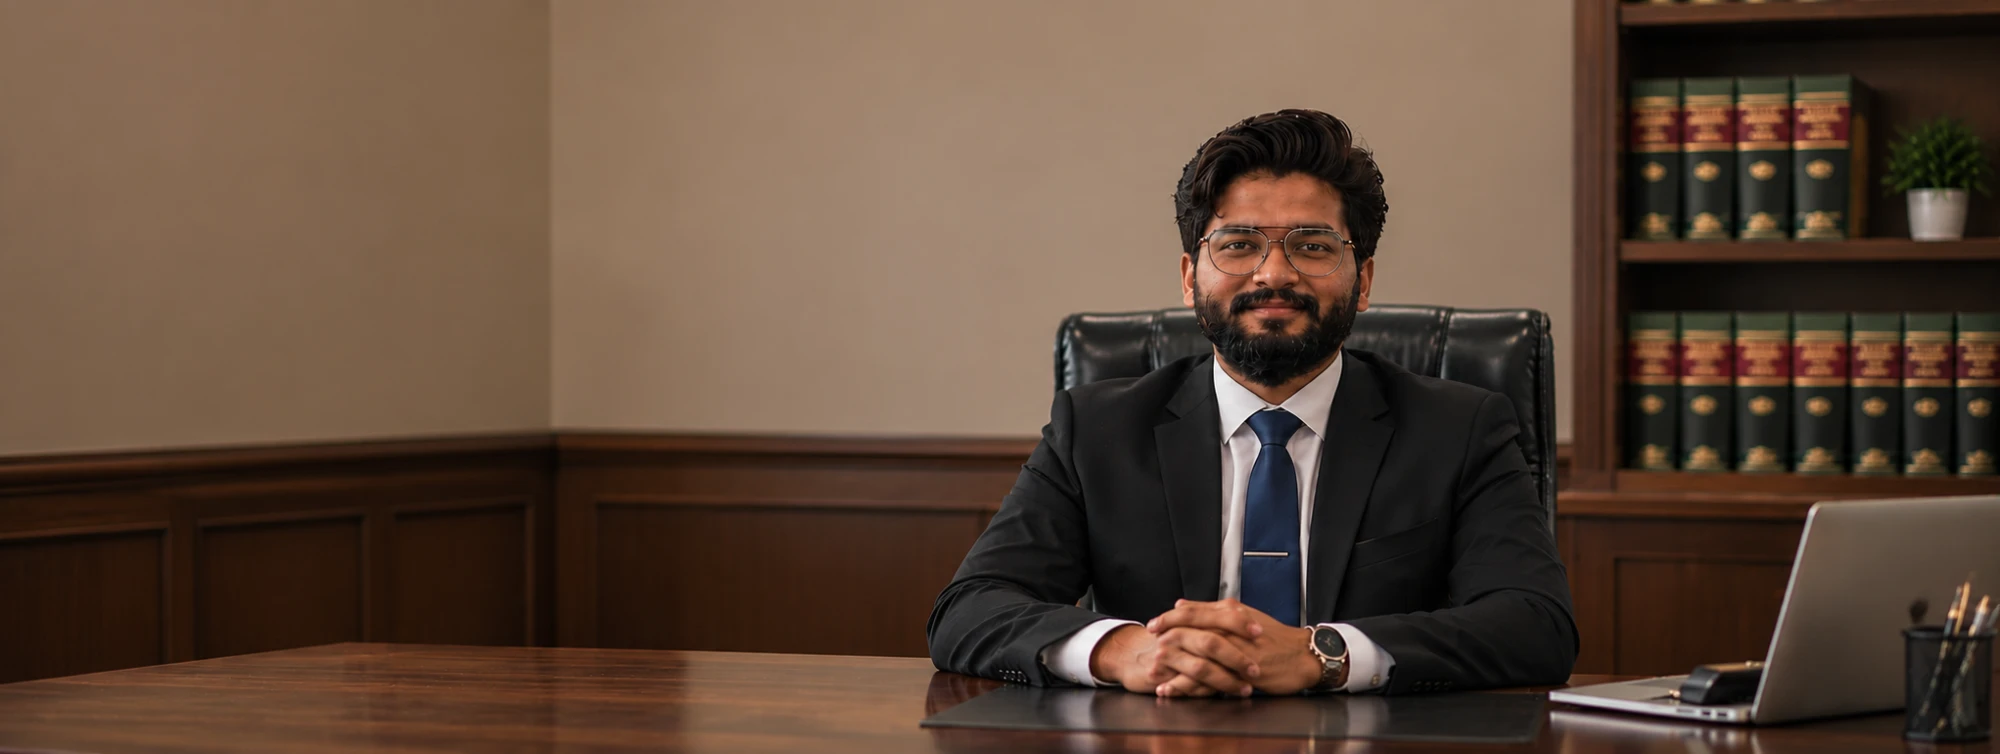
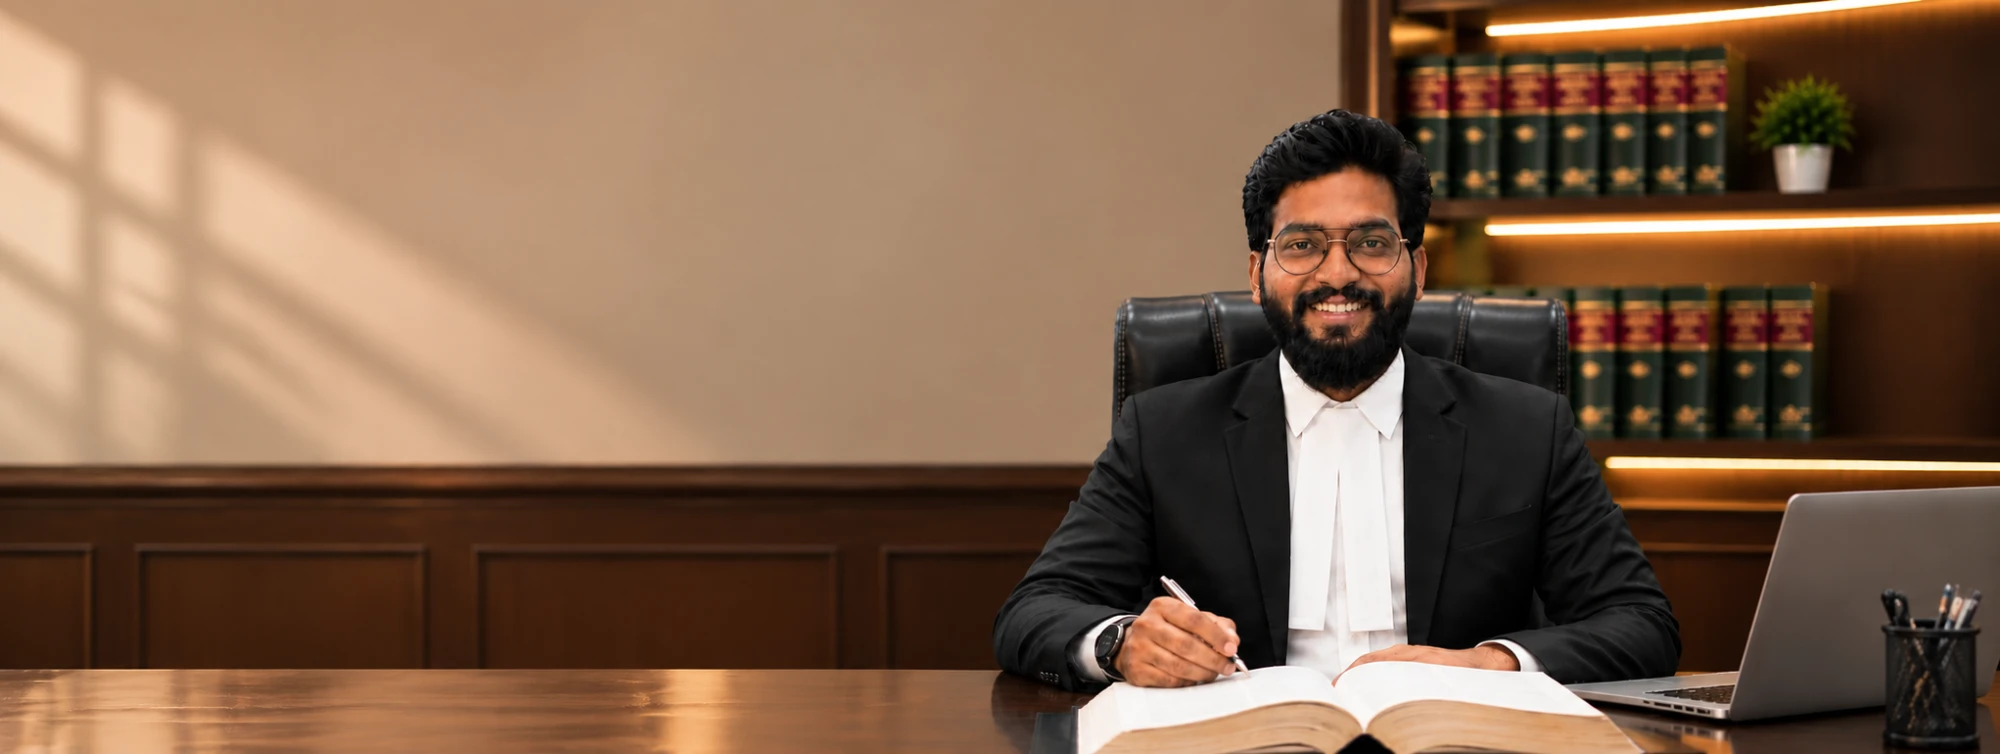
New cover photo, email consult buttons, directions link; remove the hero quote
- Cover replaced with the photograph in advocate's bands; tablet and
  phone crops re-centred on him
- Consult Now and Get a Consultation open a new email to the advocate
- Get directions link under the location in the contact section
- The 'Clarity Strategy Results' quote and its styles are removed

diff --git a/css/styles.css b/css/styles.css
@@ -97,7 +97,6 @@ a { color: inherit; }
 .hero::before {
   content: ""; position: absolute; inset: 0; z-index: -1;
   background:
-    radial-gradient(26rem 18rem at 100% 0%, rgba(11, 22, 34, 0.8), transparent 75%),
     linear-gradient(180deg, rgba(11, 22, 34, 0.8) 0%, rgba(11, 22, 34, 0.15) 30%, rgba(11, 22, 34, 0.15) 100%),
     linear-gradient(90deg, rgba(11, 22, 34, 0.85) 0%, rgba(11, 22, 34, 0.5) 42%, transparent 62%);
 }
@@ -110,9 +109,6 @@ a { color: inherit; }
 .hero h1 span { display: block; }
 .hero__lede { max-width: 28rem; font-size: 1.02rem; color: var(--on-dark); opacity: 0.92; }
 .hero__actions { display: flex; flex-wrap: wrap; align-items: center; gap: 1rem 1.75rem; margin-top: 0.55rem; }
-/* sits over the bookshelf: placed from the hero's right edge, like the photo, so it never drifts onto his face */
-.hero__quote { position: absolute; top: 22%; right: clamp(1.5rem, 5vw, 5.5rem); font-family: var(--serif); font-size: 1.3rem; line-height: 1.4; text-shadow: 0 1px 0.9rem rgba(11, 22, 34, 0.85); }
-.hero__quote::after { content: ""; display: block; width: 1.9rem; height: 2px; margin-top: 0.8rem; background: var(--copper-bright); }
 
 /* stats */
 .stats { background: var(--paper-2); }
@@ -199,6 +195,7 @@ a { color: inherit; }
 .contact__list strong, .contact__list a { display: block; font-size: 0.8rem; font-weight: 600; line-height: 1.4; text-decoration: none; white-space: nowrap; }
 .contact__list a { padding-block: 0.6rem; margin-block: -0.6rem; }
 .contact__list a:hover { color: var(--copper-text); text-decoration: underline; }
+.contact__list a.directions { margin-block: 0.15rem 0; padding-block: 0.3rem; color: var(--copper-text); text-decoration: underline; text-underline-offset: 0.15em; }
 .contact__list span a { display: inline; padding: 0; margin: 0; font-size: inherit; white-space: normal; text-decoration: underline; text-underline-offset: 0.15em; }
 .contact__list span { display: block; max-width: 11rem; margin-top: 0.2rem; font-size: 0.75rem; line-height: 1.45; color: var(--ink-soft); }
 
@@ -231,7 +228,6 @@ a { color: inherit; }
   .experience__photo { left: -5%; top: -6%; height: 115%; }
 }
 @media (max-width: 1180px) {
-  .hero__quote { display: none; }
   .hero h1 { font-size: clamp(3rem, 7vw, 4.5rem); }
   .hero__lede { max-width: 24rem; }
   .nav { gap: 1.25rem; }
@@ -254,7 +250,7 @@ a { color: inherit; }
   .hero__text { max-width: none; padding-bottom: 1.75rem; }
   .hero__lede { max-width: 34rem; }
   .hero__photo {
-    position: static; display: block; width: 100%; height: auto; aspect-ratio: 16 / 9; object-fit: cover; object-position: 75% center; transform: none;
+    position: static; display: block; width: 100%; height: auto; aspect-ratio: 16 / 9; object-fit: cover; object-position: 85% center; transform: none;
     -webkit-mask-image: linear-gradient(180deg, transparent 0, #000 24%);
     mask-image: linear-gradient(180deg, transparent 0, #000 24%);
   }

diff --git a/index.html b/index.html
@@ -48,7 +48,7 @@
           <li><a href="#clients">Clients</a></li>
           <li><a href="#contact">Contact</a></li>
         </ul>
-        <a class="btn" href="#contact">Consult Now <svg class="icon" aria-hidden="true"><use href="#i-arrow-right"/></svg></a>
+        <a class="btn" href="mailto:adv.vishalkotpalliwar@gmail.com?subject=Consultation%20enquiry">Consult Now <svg class="icon" aria-hidden="true"><use href="#i-arrow-right"/></svg></a>
       </nav>
     </div>
   </header>
@@ -62,12 +62,11 @@
           <h1><span>Vishal</span><span>Kotpalliwar</span></h1>
           <p class="hero__lede">A legal professional combining an engineering mindset with a practical and solution-oriented approach to law, helping individuals, businesses and institutions navigate complex legal challenges.</p>
           <div class="hero__actions">
-            <a class="btn" href="#contact">Get a Consultation <svg class="icon" aria-hidden="true"><use href="#i-arrow-right"/></svg></a>
+            <a class="btn" href="mailto:adv.vishalkotpalliwar@gmail.com?subject=Consultation%20enquiry">Get a Consultation <svg class="icon" aria-hidden="true"><use href="#i-arrow-right"/></svg></a>
             <a class="textlink" href="#practice">Explore Practice Areas <svg class="icon" aria-hidden="true"><use href="#i-arrow-down"/></svg></a>
           </div>
         </div>
       </div>
-      <p class="hero__quote">&ldquo;Clarity<br>Strategy<br>Results&rdquo;</p>
       <img class="hero__photo" src="assets/cover.webp" width="2000" height="754" alt="Advocate Vishal Kotpalliwar seated at his desk" fetchpriority="high">
     </section>
 
@@ -216,7 +215,7 @@
           </li>
           <li>
             <svg class="icon" aria-hidden="true"><use href="#i-pin"/></svg>
-            <div><strong>Mumbai, Maharashtra</strong><span>In-person &amp; online consultation available</span></div>
+            <div><strong>Mumbai, Maharashtra</strong><span>In-person &amp; online consultation available</span><a class="directions" href="https://share.google/EFey6IR7Ii5eQGLlh" target="_blank" rel="noopener">Get directions</a></div>
           </li>
         </ul>
       </div>
